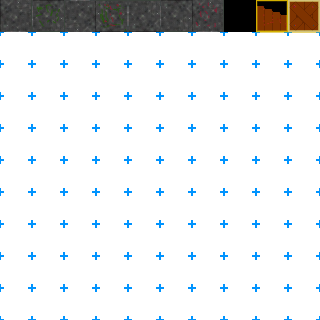
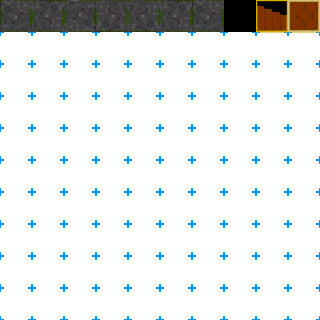
more tiles

diff --git a/src/net/anorrah/Room.java b/src/net/anorrah/Room.java
@@ -44,27 +44,26 @@ public class Room {
 			for(int y = 2; y < Level.height-2; y++)
 			{
 				int dice = (int) (Math.random()*100)+1;
-				
+				if(x != Level.center_w && y != Level.center_h)
+				{
 					if(dice > chanceEmpty-levelNum)
 					{
 						//place an empty tile at [x,y] 
 					}
-					else if(dice > chanceEnemy- Math.ceil(levelNum/2)){
+					else if(dice > chanceEnemy- Math.ceil(levelNum/2))
+					{
 						//place an enemy  at [x,y](roll again for enemy type)
 
 					}
-					else if(dice > chanceBlocked-Math.ceil(levelNum/2)){
-						Rectangle rec = new Rectangle();
-						int[] sol = {1,1};
-						System.out.println("Got to the block generation");
-						Solid block = new Solid(new Rectangle(x*Tile.size, y*Tile.size, Tile.size, Tile.size),x,y,Tile.item);
-						blocks.add(block);
+					else if(dice > chanceBlocked-Math.ceil(levelNum/2))
+					{
+						blocks.add(new Solid(new Rectangle(x*Tile.size, y*Tile.size, Tile.size, Tile.size),x,y,Tile.pit));
 					}
 					else {
 						//place a trap tile at [x,y]
 						
 					}
-				
+				}
 			}
 			
 		}

diff --git a/src/net/anorrah/Tile.java b/src/net/anorrah/Tile.java
@@ -54,6 +54,9 @@ public class Tile
 	public static int[] wall_open_left = {2,5};
 	public static int[] wall_open_right = {3,5};
 	
+	public static int[] pit = {0,7};
+	public static int[] boulder = {1,7};
+	
 	//items
 	public static int[] item  = {0,0};
 	public static int[] item2  = {1,1};
